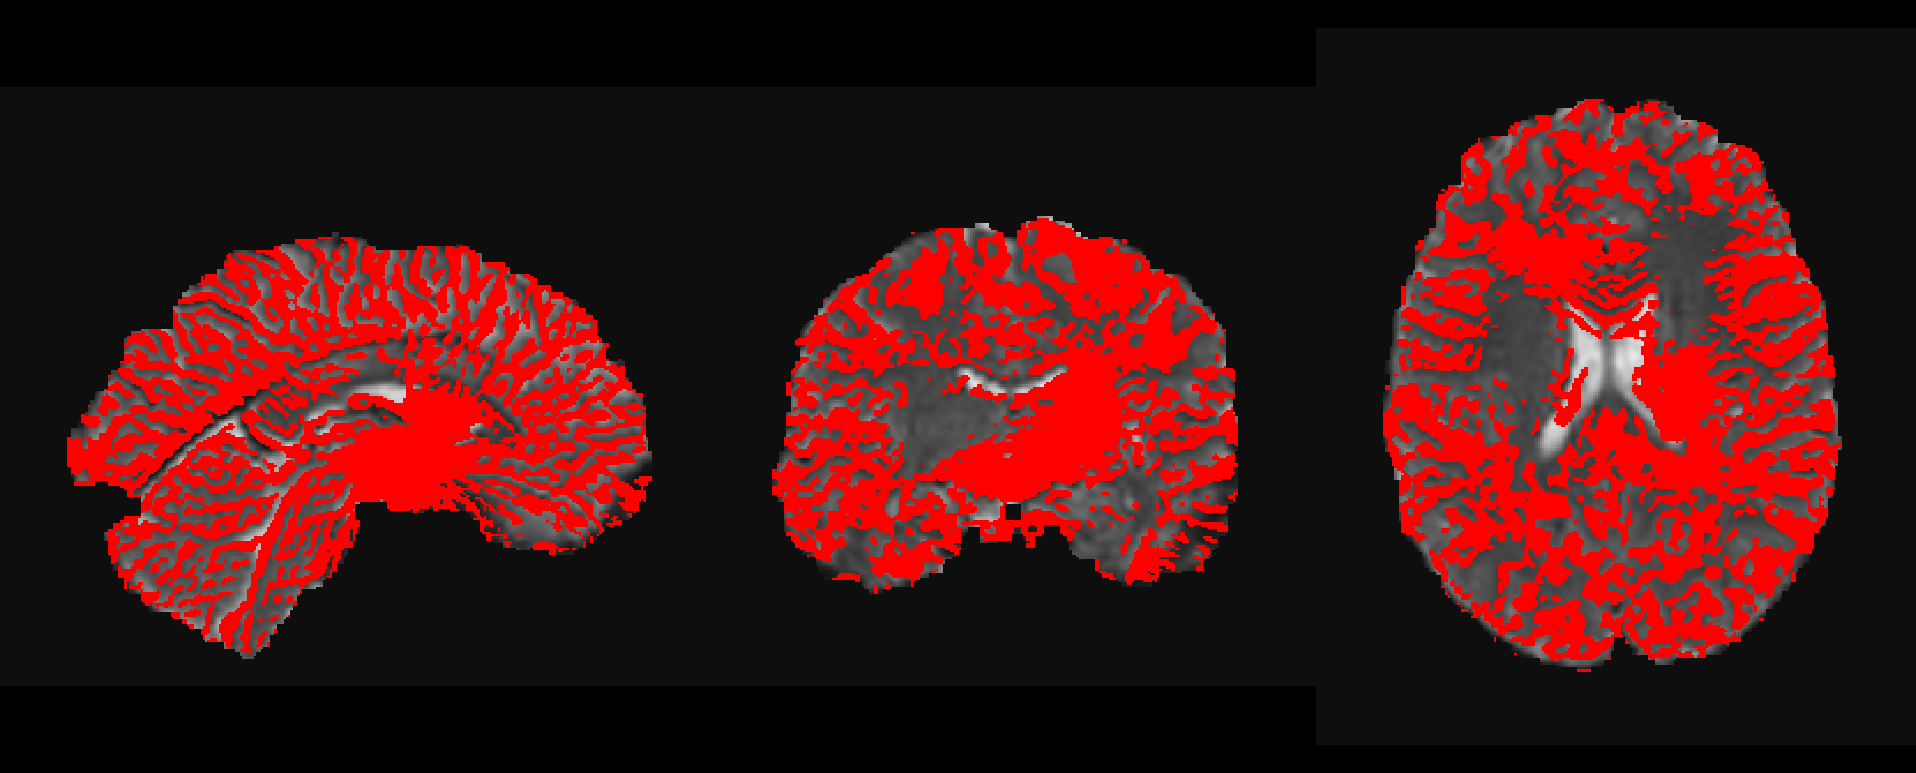
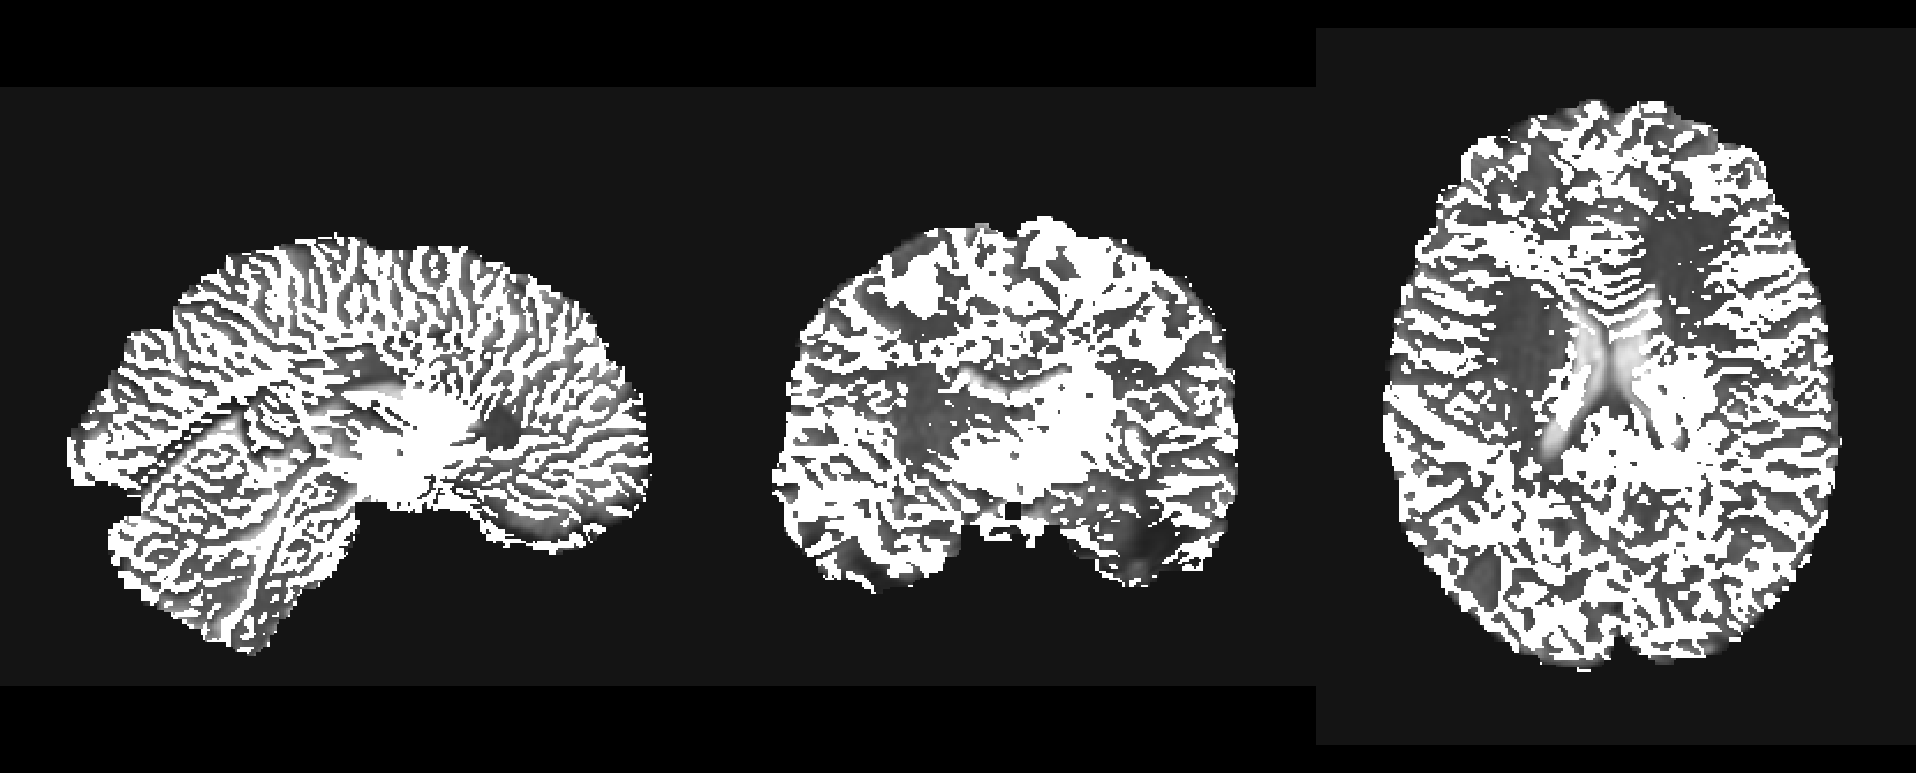
Updated figures and chapter5

Changed region(s): [[0.7082, 0.1242, 0.9854, 0.8693], [0.0308, 0.3105, 0.3387, 0.8383], [0.4003, 0.2794, 0.6467, 0.7762]]

diff --git a/chapters/chapter5/chapter5.tex b/chapters/chapter5/chapter5.tex
@@ -21,7 +21,7 @@ Standard Deviation & 0.0160    & 0.3806   \\ \hline
 \end{center}
 \hfill \break
 
-Table \ref{tab:PreFreeSurfer_Metic_Values} contains the average mean, median and standard deviation we calculated for the metrics, NRMSE value and Dice coefficient. Dice coefficient shows that out of the results we obtained from PreFreeSurfer processing on two conditions, there was only 32\% similarity while taking the average of Dice coeffiecient of every file that we found to have a checksum difference. The average Dice coefficient is very low, which means that majority of the images are dissimilar.
+Table \ref{tab:PreFreeSurfer_Metic_Values} contains the average mean, median and standard deviation we calculated for the metrics, NRMSE value and Dice coefficient. Dice coefficient shows that out of the results we obtained from PreFreeSurfer processing on two conditions, there was only 32\% similarity while taking the average of Dice coefficient of every file that we found to have a checksum difference. The average Dice coefficient is very low, which means that majority of the images are dissimilar.
 
 \hfill \break
 \begin{center}
@@ -63,7 +63,7 @@ Figure~\ref{fig:prefreesurfer_t2w_acpc} illustrates the differences in the ``T2w
 \end{center}
 \vskip 0.2in
 
-The visualization of the differences in T2w ACPC file given in the link above, shows that the images from two conditions are totally out of alignment. This differnence is the result of PreFreeSurfer processing (step (4), Figure \ref{fig:prefreesurfer_overview}). The linear registration done using FLIRT creates the difference.
+The visualization of the differences in T2w ACPC file given in the link above, shows that the images from two conditions are totally out of alignment. This difference is the result of PreFreeSurfer processing (step (4), Figure \ref{fig:prefreesurfer_overview}). The linear registration done using FLIRT creates the difference.
 
 \vskip 0.2in
 Figure~\ref{fig:prefreesurfer_std_file} illustrates the differences in the ``standard2str.nii.gz". The file was taken from subject ``105216". File has an NRMSE value of 0.036 and the Dice coefficient value is 0.2*10\textsuperscript{-7}. The red color in the images shows the (binarized) differences in the images in between two conditions (CentOS6 and CentOS7).
@@ -106,35 +106,39 @@ Table \ref{tab:FreeSurfer_Metic_Values} contains the mean, median and standard d
 \label{fig:freesurfer_metric_values}
 \end{center}
 
-Figure \ref{fig:freesurfer_metric_values} contains the matrices showing the plotted values of NRMSE (left) and Dice Coefficient (right). Each line in the matrix corresponds to a file common to all the subjects. Each column represents a subject and each row represents the same file in 5 different subjects. The NRMSE value appears brighter if the images are dissimilar and it appears darker if the images are similar. Conversely, the Dice coefficient value appears darker if the images are dissimiliar and appears brighter if the images are similar. We can also observe that the magnitude of differences varies across the files as well as the subjects.
+Figure \ref{fig:freesurfer_metric_values} contains the matrices showing the plotted values of NRMSE (left) and Dice Coefficient (right). Each line in the matrix corresponds to a file common to all the subjects. Each column represents a subject and each row represents the same file in 5 different subjects. The NRMSE value appears brighter if the images are dissimilar and it appears darker if the images are similar. Conversely, the Dice coefficient value appears darker if the images are dissimilar and appears brighter if the images are similar. We can also observe that the magnitude of differences varies across the files as well as the subjects.
 
 \subsection{Comparison of specific files}
-Figure~\ref{fig:freesurfer_ribbon_file} illustrates the differences in the ``ribbon.nii.gz" file. The file was taken from subject ``105216". The file illustrated here has an NRMSE value of 0.081 and the Dice coefficient value is 0.993. The red color in the image shows the difference in between the images in two conditions (CentOS6 and CentOS7).
+Figure~\ref{fig:freesurfer_ribbon_file} illustrates the differences in the ``ribbon.nii.gz" file. FreeSurfer pipeline produces this file in step (7) (Figure \ref{fig:freesurfer_overview}) for high resolution pial surface placement with grey matter intensity normalization and T2w exclusion of Dura and Vessels.
+The file was taken from subject ``105216". The file illustrated here has an NRMSE value of 0.081 and the Dice coefficient value is 0.993. The bright spots in the images shows the differences in the images in two conditions (CentOS6 and CentOS7).
 \hfill \break
 \begin{center}
-\includegraphics[width=\linewidth]{ribbon_screenshot_freesurfer.png}
-\captionof{figure}{Differences in the ribbon file from FreeSurfer Result (Red shaded region shows the differences). \href{https://drive.google.com/file/d/1YHV4PHGzkhgOVE5slMNoDksBMqHSLwjS/view?usp=sharing}{Link}}
+\includegraphics[width=.5\linewidth]{freesurfer-ribbon2.png}%
+\includegraphics[width=.5\linewidth]{freesurfer-ribbon1.png}
+\captionof{figure}{Differences in the ribbon file from FreeSurfer Result (Bright spots in the image shows the differences). \href{https://drive.google.com/file/d/1YHV4PHGzkhgOVE5slMNoDksBMqHSLwjS/view?usp=sharing}{Link}}
 \caption*{(Subject: 105216; Filename: ribbon.nii.gz; Dice coeff.: 0.993 ; NRMSE: 0.081)}
 \label{fig:freesurfer_ribbon_file}
 \end{center}
 \hfill \break
 
-Figure~\ref{fig:freesurfer_aseg_file} illustrates the differences in the ``aseg.hires.mgz" file. The file was taken from subject ``105216". The file illustrated here has an NRMSE value of 0.010 and the Dice coefficient value is 0.987. The yellow color in the image shows the difference in the images in between two conditions (CentOS6 and CentOS7).
+Figure~\ref{fig:freesurfer_aseg_file} illustrates the differences in the ``aseg.hires.mgz" file. This file gets created under mri directory inside T1w file directory. The file was taken from subject ``105216". The file illustrated here has an NRMSE value of 0.010 and the Dice coefficient value is 0.987. The bright spots in the image shows the difference in the images in between two conditions (CentOS6 and CentOS7).
 \hfill \break
 \begin{center}
-\includegraphics[width=.99\linewidth]{aseg-hires-red.png}
+\includegraphics[width=.5\linewidth]{aseg-bright-1.png}%
+\includegraphics[width=.5\linewidth]{aseg-bright-2.png}
 \captionof{figure}{FreeSurfer Aseg hires file (Red shaded region shows the differences in the image in between two conditions). \href{https://drive.google.com/file/d/1WUwWp5muXvotbMQqTqR5LcMyncH1ET3P/view?usp=sharing}{Link}}
 \caption*{(Subject: 105216; Filename: aseg.hires.mgz; Dice coeff.: 0.987 ; NRMSE: 0.010)}
 \label{fig:freesurfer_aseg_file}
 \end{center}
 \hfill \break
 
-Figure~\ref{fig:freesurfer_wm_file} illustrates the differences in the ``wm.hires.nii.gz" file. The file was taken from subject ``105216". The file illustrated here has an NRMSE value of 0.074 and the Dice coefficient value is 0.994. The grey color around the yellow shaded parts in the image shows the difference in the images in between two conditions (CentOS6 and CentOS7).
+Figure~\ref{fig:freesurfer_wm_file} illustrates the differences in the ``wm.hires.nii.gz" file. The file was taken from subject ``105216". The file illustrated here has an NRMSE value of 0.074 and the Dice coefficient value is 0.994. The bright spots in the image shows the differences in between two conditions (CentOS6 and CentOS7).
 
 \hfill \break
 \begin{center}
-\includegraphics[width=.99\linewidth]{wm-red-white.png}
-\captionof{figure}{FreeSurfer WM hire file (Red shaded region shows the file containing the difference). \href{https://drive.google.com/file/d/1PzR21tsDOZTqDOcoh1zFyDe7ZXB_LXfJ/view?usp=sharing}{Link}}
+\includegraphics[width=.5\linewidth]{wm_hires1.png}%
+\includegraphics[width=.5\linewidth]{wm_hires2.png}
+\captionof{figure}{FreeSurfer WM hire file (Bright spots in the image shows the differences). \href{https://drive.google.com/file/d/1PzR21tsDOZTqDOcoh1zFyDe7ZXB_LXfJ/view?usp=sharing}{Link}}
 \caption*{(Subject: 105216; Filename: wm.hires.nii.gz; Dice coeff.: 0.994 ; NRMSE: 0.074)}
 \label{fig:freesurfer_wm_file}
 \end{center}
@@ -174,32 +178,35 @@ Table \ref{tab:PostFreeSurfer_Metic_Values} contains the mean, median and standa
 Figure \ref{fig:postfreesurfer_metric_values} contains the matrices showing the plotted values of NRMSE (left) and Dice Coefficient (right). Each line in the matrix corresponds to a file common to all the subjects. Each column represents a subject and each row represents the same file in 5 different subjects. The files are sorted according to the modification time. The NRMSE value appears brighter if the images are dissimilar and it appears darker if the images are similar. Conversely, the Dice coefficient value appears darker if the images are dissimilar and appears brighter if the images are similar. We can also observe that the magnitude of differences varies across the files as well as the subjects.
 
 \subsection{Comparison of specific files}
-Figure~\ref{fig:postfreesurfer_high_nrmse} illustrates the differences in the ``aparc.a2009s+aseg.nii.gz" file. The file was taken from subject ``101410". The file illustrated here has an NRMSE value of 0.101 and the Dice coefficient value is 0.97. The red colored regions in the image shows the difference in the image in between two conditions (CentOS6 and CentOS7).
+Figure~\ref{fig:postfreesurfer_high_nrmse} illustrates the differences in the ``aparc.a2009s+aseg.nii.gz" file. The file was taken from subject ``101410". The file illustrated here has an NRMSE value of 0.101 and the Dice coefficient value is 0.97. The bright spots in the image shows the differences in between two conditions (CentOS6 and CentOS7).
 
 \hfill \break
 \begin{center}
-\includegraphics[width=\linewidth]{postfreesurfer-nrmse-aparc-a2009s+aseg}
+\includegraphics[width=.5\linewidth]{a20091.png}%
+\includegraphics[width=.5\linewidth]{a20092.png}
 \captionof{figure}{Illustrates the differences in the file with the highest NRMSE value in PostFreeSurfer Processing. \href{https://drive.google.com/file/d/1eeofWaPyk-A2pQd6LlieQwbMYVOrfeI3/view?usp=sharing}{Link}}
 \caption*{(Subject: 101410; Filename: aparc.a2009s+aseg.nii.gz; Dice coeff.: 0.97 ; NRMSE: 0.101)}
 \label{fig:postfreesurfer_high_nrmse}
 \end{center}
 \hfill \break
 
-Figure~\ref{fig:postfreesurfer_ribbon_file} illustrates the differences in the ``T1w/ribbon.nii.gz" file. The file was taken from subject ``105216". The file illustrated here has an NRMSE value of 0.038 and the Dice coefficient value is 0.995. The red colored regions in the image shows the difference in the image in between two conditions (CentOS6 and CentOS7).
+Figure~\ref{fig:postfreesurfer_ribbon_file} illustrates the differences in the ``T1w/ribbon.nii.gz" file. The file was taken from subject ``105216". The file illustrated here has an NRMSE value of 0.038 and the Dice coefficient value is 0.995. The bright spots in the image shows the difference in the image in between two conditions (CentOS6 and CentOS7).
 
 \hfill \break
 \begin{center}
-\includegraphics[width=\linewidth]{postfreesurfer-ribbon.png}
-  \captionof{figure}{Illustrates the differences in the T1w Ribbon file. \href{https://drive.google.com/file/d/1PCj6gtoQSe3Cn6NAWuy2ZJq6xvm0tjh1/view?usp=sharing}{Link}}
+\includegraphics[width=.5\linewidth]{ribbon_postfreesurfer2.png}%
+\includegraphics[width=.5\linewidth]{ribbon_postfreesurfer.png}
+\captionof{figure}{Illustrates the differences in the T1w Ribbon file. \href{https://drive.google.com/file/d/1PCj6gtoQSe3Cn6NAWuy2ZJq6xvm0tjh1/view?usp=sharing}{Link}}
 \caption*{(Subject: 105216; Filename: T1w/ribbon.nii.gz; Dice coeff.: 0.995 ; NRMSE: 0.038)}
 \label{fig:postfreesurfer_ribbon_file}
 \end{center}
 \hfill \break
 
-Figure~\ref{fig:postfreesurfer_aparc_file} illustrates the differences in the ``MNINonlinear/aparc+aseg.nii.gz" file. The file was taken from subject ``101006". The file illustrated here has an NRMSE value of 0.073 and the Dice coefficient value is 0.98. The red colored regions in the image shows the difference in the image in between two conditions (CentOS 6 and CentOS7).
+Figure~\ref{fig:postfreesurfer_aparc_file} illustrates the differences in the ``MNINonlinear/aparc+aseg.nii.gz" file. The file was taken from subject ``101006". The file illustrated here has an NRMSE value of 0.073 and the Dice coefficient value is 0.98. The bright spots in the image shows the difference in the image in between two conditions (CentOS 6 and CentOS7).
 \hfill \break
 \begin{center}
-\includegraphics[width=.99\linewidth]{aparc+aseg_post.png}
+\includegraphics[width=.5\linewidth]{aparc_aseg1.png}%
+\includegraphics[width=.5\linewidth]{aparc_aseg2.png}%
 \captionof{figure}{Illustrates the differences in the segmentation file. \href{https://drive.google.com/file/d/1_ZyAtveS1oVle8tAXeKsp1_4KdS2MVoB/view?usp=sharing}{Link}}
 \caption*{(Subject: 101006; Filename: MNINonlinear/aparc+aseg.nii.gz; Dice coeff.: 0.98 ; NRMSE: 0.073)}
 \label{fig:postfreesurfer_aparc_file}
@@ -237,13 +244,15 @@ Table \ref{tab:fMRIVolume_Metric_Values} contains the mean, median and standard 
 \hfill \break
 
 Figure \ref{fig:fMRI_metric_values} contains the matrices showing the plotted values of NRMSE (left) and Dice Coefficient (right) with respect to the files having differences from the fMRIVolume pipeline preprocessing. Each line in the matrix corresponds to a file common to all the subjects. Each column represents a subject and each row represents the same file in 5 different subjects. The files are sorted according to their modification time. The NRMSE value appears brighter if the images are dissimilar and it appears darker if the images are similar. Conversely, the Dice coefficient value appears darker if the images are dissimilar and appears brighter if the images are similar. We can also observe that the magnitude of differences varies across the files as well as the subjects.
+
 \subsection{Comparison of specific files}
-Figure~\ref{fig:allgrey_matter} illustrates the differences in the ``AllGreyMatter.nii.gz" file. The file was taken from subject ``101006". The file illustrated here has an NRMSE value of 0.074 and the Dice coefficient value is 0.99. The red colored regions in the image shows the differences (CentOS 6 and CentOS7).
+Figure~\ref{fig:allgrey_matter} illustrates the differences in the ``AllGreyMatter.nii.gz" file. The file was taken from subject ``101006". The file illustrated here has an NRMSE value of 0.074 and the Dice coefficient value is 0.99. The bright spots in the image shows the differences between the conditions (CentOS 6 and CentOS7).
 
 \hfill \break
 \begin{center}
-\includegraphics[width=.75\linewidth]{Frontview2.png}%
-\captionof{figure}{All Grey Matter file with differences (Blue shaded region shows the CentOS 6 output and yellow region shows the CentOS 7 output). \href{https://drive.google.com/file/d/1dzpyMalJ6_ox8jLedKvhKrP2ew7C7N-r/view?usp=sharing}{Link}}
+\includegraphics[width=.5\linewidth]{grey-fmri1.png}%
+\includegraphics[width=.5\linewidth]{grey-fmri2.png}%
+\captionof{figure}{All Grey Matter file with differences (Bright spots shows the differences). \href{https://drive.google.com/file/d/1dzpyMalJ6_ox8jLedKvhKrP2ew7C7N-r/view?usp=sharing}{Link}}
 \caption*{(Subject: 101006; Filename: AllGreyMatter.nii.gz; Dice coeff.; 0.99; NRMSE; .074)}
 \label{fig:allgrey_matter} 
 \end{center}
@@ -261,7 +270,7 @@ Figure~\ref{fig:tfMRI_mask_file} illustrates the differences in the ``tfMRI\_MOT
 \end{center}
 \hfill \break
 
-Figure~\ref{fig:scout_gdc_file} illustrates the differences in the ``Scout\_gdc\_undistorted2T1w.nii.gz" file. The files are taken from subject ``101410". The files illustrated here has an NRMSE value of 0.010 and the Dice coefficient value is 0.778. The blue shaded region shows the difference in the image in between the two conditions.
+Figure~\ref{fig:scout_gdc_file} illustrates the differences in the ``Scout\_gdc\_undistorted2T1w.nii.gz" file. The files are taken from subject ``101410". The files illustrated here has an NRMSE value of 0.010 and the Dice coefficient value is 0.778. The bright regions in the image shows the differences in between the two conditions (CentOS6 and CentOS7).
 
 \hfill \break
 \begin{center}
@@ -288,4 +297,4 @@ Median             & 0.078    & .0109       & 0.004          & 0.0217           
 \label{tab:comparison_table}
 \end{center}
 \vskip .2in
-Comparing the metric values obtained from anatomical differences and effect of operating system differences, the operating system differences quantified by NRMSE value is 1/15\textsuperscript{th} (0.92/.0066) of the differences that are caused by the anatomical variations of the subjects.
+Comparing the metric values obtained from anatomical differences and effect of operating system differences, differences due to the effect of operating systems, quantified by NRMSE value on subject 101006, is 1/14\textsuperscript{th} (0.92/.0066) of the differences that are caused by the anatomical variations of the subjects (101006 vs. 101107). Similarly, the effect of operating system on subject 101107, is 1/12\textsuperscript{th} (0.092/.0077) of the differences that are caused by the anatomical variations of the subjects (101006 vs. 101107).
